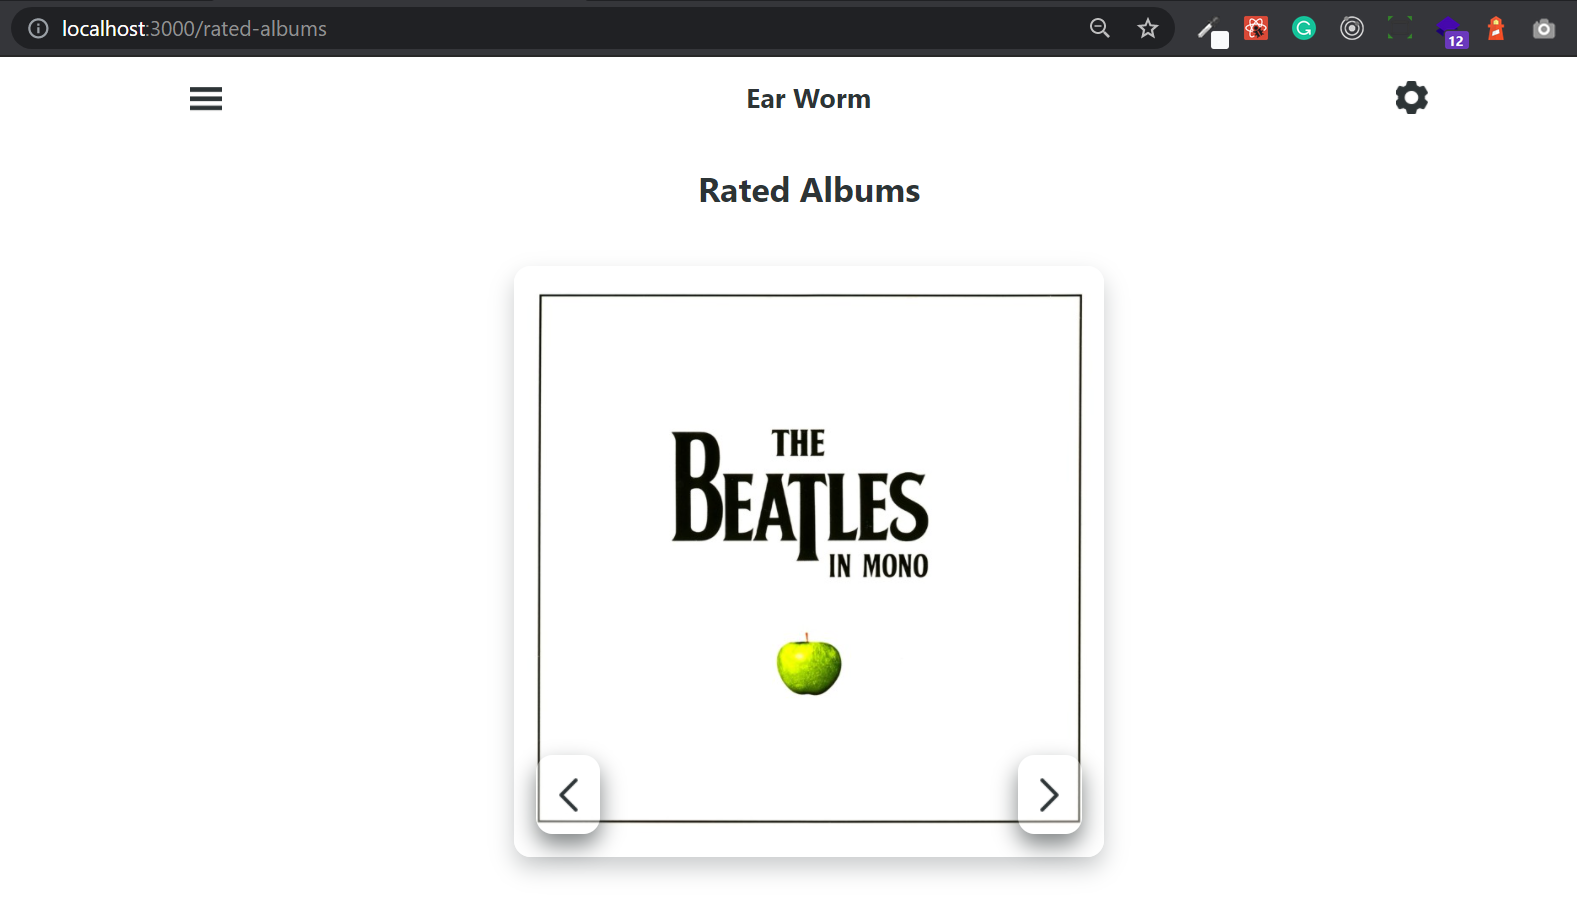
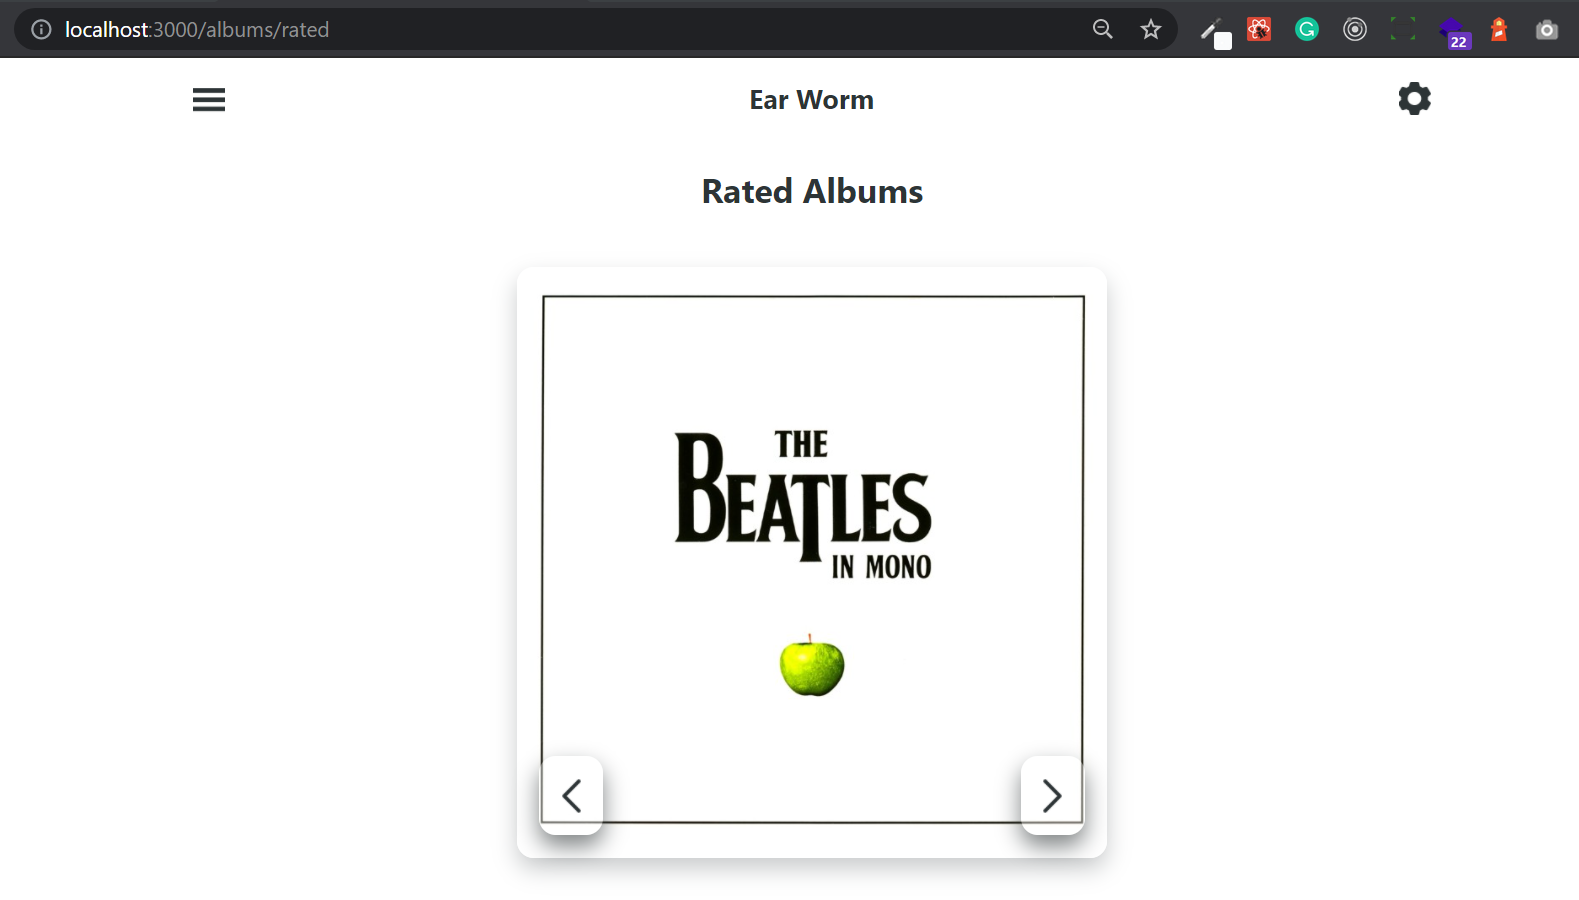
(fix): Update the plan, challenge, solution md files with new paths

diff --git a/notes/challenge/challenge.md b/notes/challenge/challenge.md
@@ -6,9 +6,9 @@ In VS Code right click on the challenge.md file and click "Open Preview".
 
 The aim of this challenge is to get you to practice adding routing to a project.
 
-You will need to set a new link to "/rated-albums". You will need to set a new route in the app to reuse the AlbumGallery container. You will need to give it different props though.
+You will need to set a new link to "/albums/rated". You will need to set a new route in the app to reuse the AlbumGallery container. You will need to give it different props though.
 
-In the image below you can see that when you go to http://localhost:3000/rated-albums it displays the AlbumGallery container but it has been given different props.
+In the image below you can see that when you go to http://localhost:3000/albums/rated it displays the AlbumGallery container but it has been given different props.
 
 <img src="./images/highest-rating-page.PNG" width="600"/>
 
@@ -22,6 +22,8 @@ In the image below you can see that when you go to http://localhost:3000/rated-a
 
 3. It is up to you to put the rest of the pieces together. Which container can we re use? What props need to given to this page?
 
+_Hint If it is only going to /albums have a look at the [exact](https://reactrouter.com/web/api/Route/exact-bool) prop for the Route component_
+
 ---
 
 ## Challenge 2 Brief:
@@ -30,7 +32,7 @@ The aim of this challenge is to get you to practice using queryParams.
 
 You will have the AlbumInfo container set up and should be logging the queryParams to the console. You need to use these params to find the correct album object from the albumsArr prop. Once you have found it you need use its data to replace the placeholders in the current JSX.
 
-In the image below you can see that when you go to http://localhost:3000/album-info/2109696 it displays the AlbumInfo container and it is the correct data related to that album id.
+In the image below you can see that when you go to http://localhost:3000/album/2109696 it displays the AlbumInfo container and it is the correct data related to that album id.
 
 <img src="./images/album-info.PNG" width="600"/>
 
@@ -49,6 +51,6 @@ In the image below you can see that when you go to http://localhost:3000/album-i
 
 3. Can you shorten the text, it needs to be over 300 characters and cut to the last sentence over this word count.
 
-4. EXTENSION: What happens if you go to http://localhost:3000/album-info/2185705 ? Do you have a bug? 
+4. EXTENSION: What happens if you go to http://localhost:3000/album/2185705 ? Do you have a bug?
 
 _Hint [Optional Chaining](https://developer.mozilla.org/en-US/docs/Web/JavaScript/Reference/Operators/Optional_chaining) && [Nullish Coalescing](https://developer.mozilla.org/en-US/docs/Web/JavaScript/Reference/Operators/Nullish_coalescing_operator)_

diff --git a/notes/plan.md b/notes/plan.md
@@ -177,7 +177,7 @@ export default AlbumGallery;
 
 It is time to hook up our new page.
 
-In App.jsx import in the AlbumGallery container. Add a new Route to the Switch component. Set the path prop on the Route to "/all-albums".
+In App.jsx import in the AlbumGallery container. Add a new Route to the Switch component. Set the path prop on the Route to "/albums".
 
 Inside the Route Add in the AlbumGallery component and give it the albumsArr and title props it needs.
 
@@ -185,7 +185,7 @@ Inside the Route Add in the AlbumGallery component and give it the albumsArr and
 // App.jsx
 
 <Switch>
-  <Route path="/all-albums">
+  <Route path="/albums">
     <AlbumGallery albumsArr={filteredAlbums} title={"All Albums"} />
   </Route>
 
@@ -200,7 +200,7 @@ In the NavMenu add a new link to take you to that page.
 ```jsx
 // NavMenu.jsx
 
-<Link className="nav-menu__item" to="/all-albums" onClick={toggleNav}>
+<Link className="nav-menu__item" to="/albums" onClick={toggleNav}>
   All Albums
 </Link>
 ```
@@ -217,7 +217,7 @@ Demonstrate what happens if the Route with the `path="/"` is the first in the Sw
     <Home user={user} unsortedAlbums={filteredAlbums} sortedAlbums={highestRating} artist={artist} />
   </Route>
 
-  <Route path="/all-albums">
+  <Route path="/albums">
     <AlbumGallery albumsArr={filteredAlbums} title={"All Albums"} />
   </Route>
 </Switch>
@@ -245,7 +245,7 @@ Import the Link component.
 
 In the AlbumTiles.jsx update the cardListJSX variable. Now it should wrap the `<img/>` with the Link component.
 
-The to prop on the Link is going to go to /album-info/idAlbum.
+The to prop on the Link is going to go to /album/idAlbum.
 
 The idAlbum is going to be the id from each of the albums objects.
 
@@ -255,7 +255,7 @@ You will need to move the key prop to the Link component.
 // AlbumTiles.jsx
 
 const cardListJSX = albumsArr.map((album, index) => (
-  <Link to={`/album-info/${album.idAlbum}`} key={title + (index + 1)}>
+  <Link to={`/album/${album.idAlbum}`} key={title + (index + 1)}>
     <img className="album-tiles__img" src={album.strAlbumThumb} alt={album.strAlbum} />
   </Link>
 ));
@@ -421,12 +421,12 @@ const { albumId } = useParams();
 console.log(albumId);
 ```
 
-In App.jsx inside the Switch set up a new route to the AlbumInfo container. Set the path to go to `/album-info/:albumId`. :albumId represents the query param.
+In App.jsx inside the Switch set up a new route to the AlbumInfo container. Set the path to go to `/album/:albumId`. :albumId represents the query param.
 
 ```jsx
 // AlbumInfo.jsx
 
-<Route path="/album-info/:albumId">
+<Route path="/album/:albumId">
   <AlbumInfo albumsArr={filteredAlbums} />
 </Route>
 ```

diff --git a/notes/challenge/solution.md b/notes/challenge/solution.md
@@ -4,26 +4,26 @@
 
 It's always better to google, ask a fellow student or ask a coach. This is one way of solving the challenge not the only way to do it.
 
-## Creating a route and Linking to the rated-albums page
+## Creating a route and Linking to the albums/rated page
 
-1. Add the Link Component to the navMenu component and set up the to prop to equal "/rated-albums".
+1. Add the Link Component to the navMenu component and set up the to prop to equal "/albums/rated".
 
 ```jsx
 // NavMenu.jsx
 
-<Link className="nav-menu__item" to="/rated-albums" onClick={toggleNav}>
+<Link className="nav-menu__item" to="/albums/rated" onClick={toggleNav}>
   Rated Albums
 </Link>
 ```
 
-2. Add a new Route to the Switch component inside App.jsx. Set the path prop to "/rated-albums".
+2. Add a new Route to the Switch component inside App.jsx. Set the path prop to "/albums/rated".
 
 3. Inside the Route you have just created add the AlbumGallery container and give it the correct props. The title will be "Rated Albums", th albumsArr will be the highestRating array.
 
 ```jsx
 // App.jsx
 
-<Route path="/rated-albums">
+<Route path="/albums/rated">
   <AlbumGallery albumsArr={highestRating} title={"Rated Albums"} />
 </Route>
 ```
@@ -83,8 +83,10 @@ const shortenedText = strDescriptionEN.substring(0, lastSentenceIndex);
 
 To avoid this we can use both Optional Chaining and Nullish Coalescing.
 
-- By putting ?. in front of the method it returns undefined rather then causes a error.
-- By putting ?? it will return what is on the right hand side if what is on the left is null or undefined. You could use || to do this but this can run into problems with numbers.
+- By putting ?. in front of the method it returns undefined rather then causes a error if it can not use the method.
+- By putting ?? it will return what is on the right hand side if it is truthy and what is on the left if it is null or undefined. 
+
+You could use || to do this but this can run into problems with numbers.
 
 ```jsx
 // App.jsx
